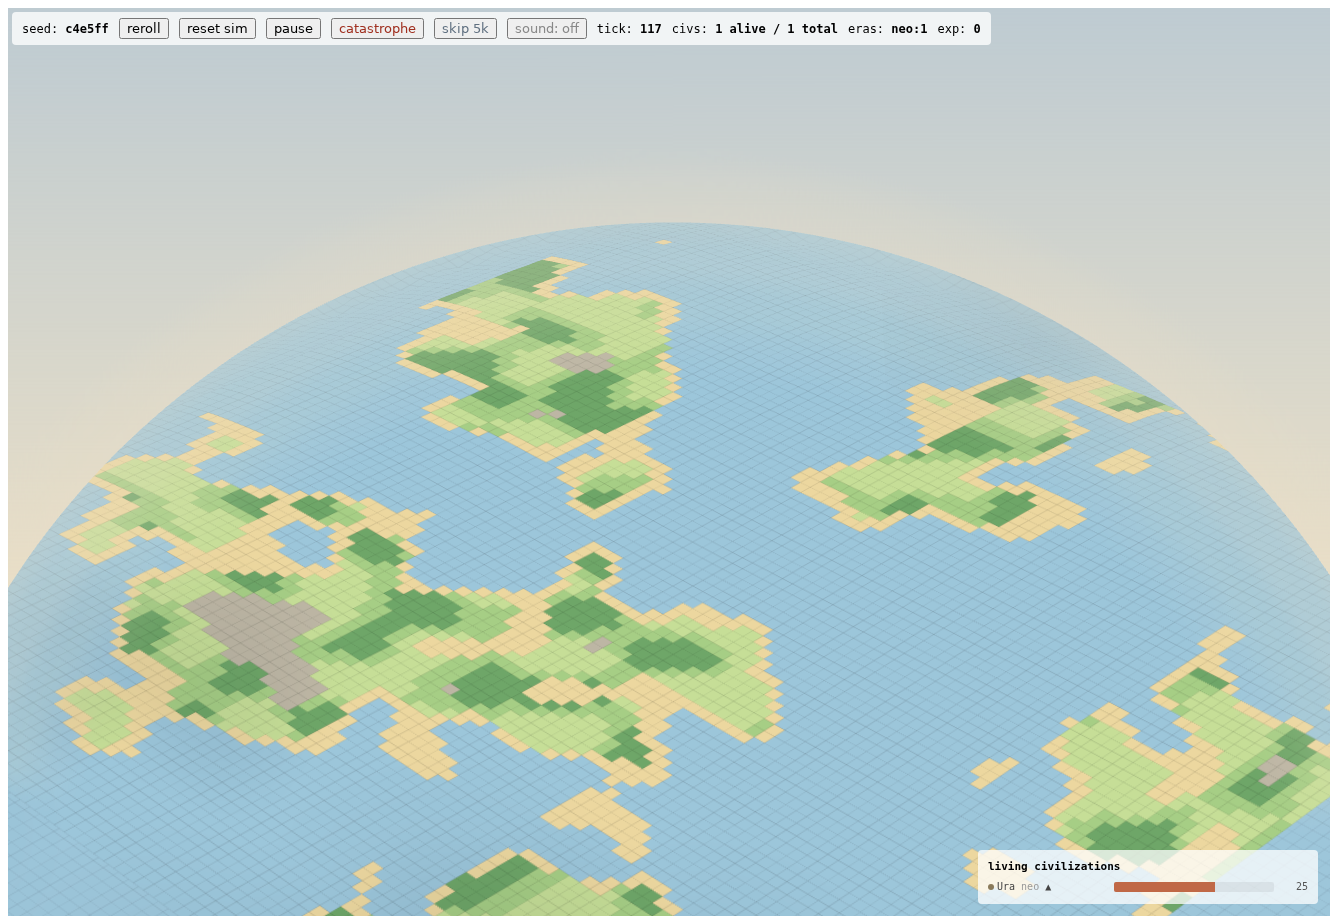
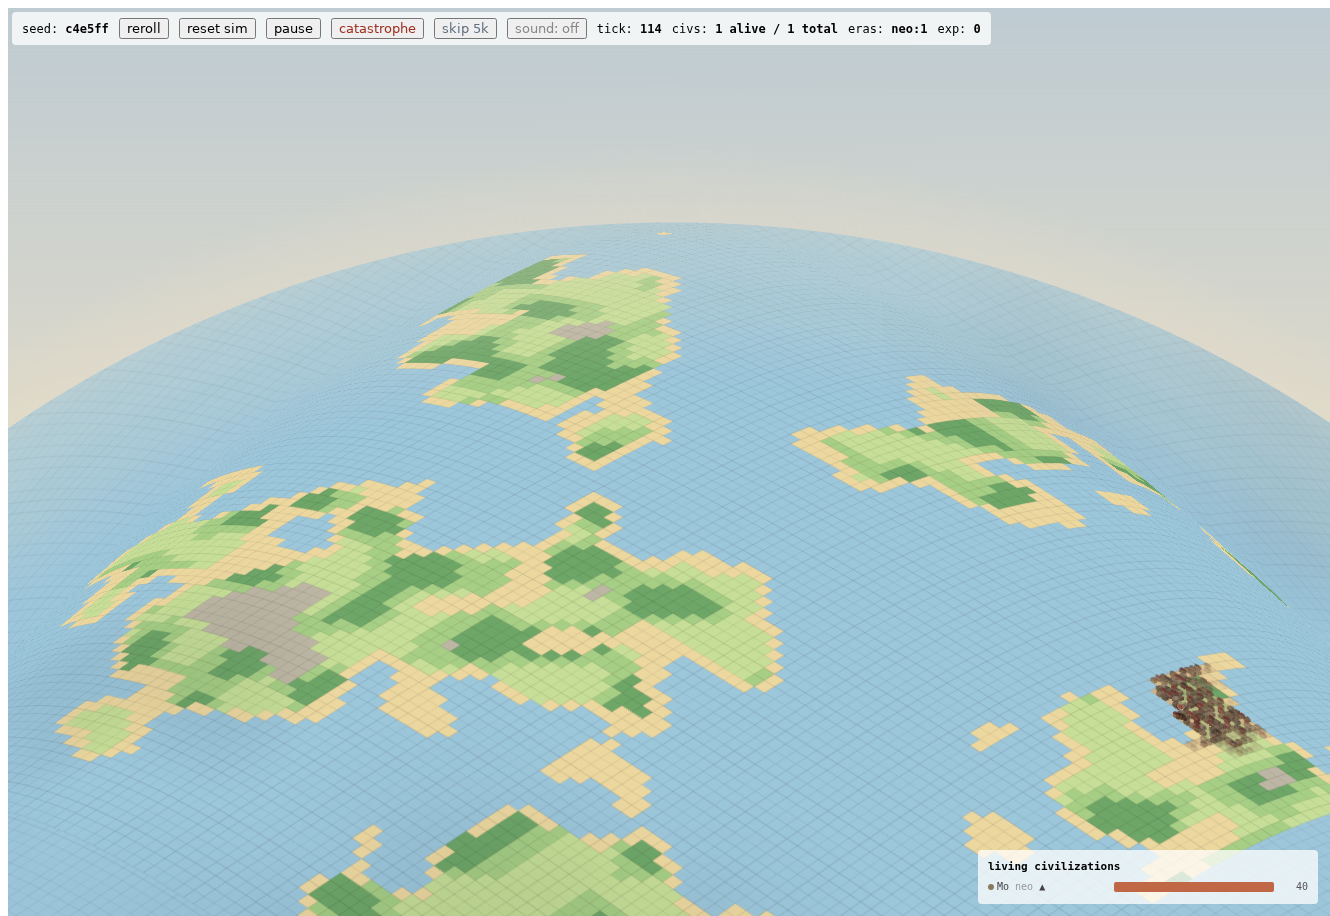
Halve the limb; bow and thin the surface into it
- limbSagMax 0.80 -> 0.40: the horizon arc is half as curved.
- Surface rows now bow parallel to the limb circle as they approach the
  horizon (limbBowMix/limbBowPower, riding the curvature knob), so the
  grid wraps the planet instead of running straight beneath the arc.
  The mesh re-bends whenever the limb is re-seated (resize/scrub).
- Far rows thin harder toward the horizon (perspective 0.60,
  vertCompressFrac 0.55): tiles narrow to slivers at the limb and relax
  to full size at the front.

diff --git a/src/atmosphere.ts b/src/atmosphere.ts
@@ -66,18 +66,20 @@ export const ATMOS = {
     // up to the horizon instead of sitting inside it. 0 = the flat diamond,
     // 1 = wings fully on the arc (too much; far columns stretch visibly).
     curvature: 0.62,
-    perspective: 0.45,
+    perspective: 0.60,
     remapMax:   0.35,        // at curvature=1: how far the surface bends toward the horizon (interior only — the limb mask owns the silhouette)
     arcSagFrac: 0.11,        // interior bend arc droop, fraction of texture height
     arcPower:   1.7,         // interior bend arc shape
     apexRoundFrac: 0.45,     // how wide the apex rounds (fraction of half-span, scales with the knob)
     pinchMaxFrac:     0.16,  // at perspective=1: horizontal narrowing of the far edge
-    vertCompressFrac: 0.35,  // at perspective=1: how hard far rows bunch toward the horizon (t^(1+this))
+    vertCompressFrac: 0.55,  // at perspective=1: how hard far rows thin toward the horizon (t^(1+this))
     // The limb: a true circular horizon, screen-space, that clips the world.
     // The far world disappears behind it — the ocean apron (drawn under the
     // terrain in main.ts) means there is always sea to clip, so the
     // silhouette is a circle arc by construction at any framing.
-    limbSagMax:   0.80,      // arc drop at the frame edge at curvature=1, fraction of half-width
+    limbSagMax:   0.40,      // arc drop at the frame edge at curvature=1, fraction of half-width
+    limbBowMix:   0.85,      // how strongly surface rows bow parallel to the limb as they near it
+    limbBowPower: 1.5,       // how quickly the bow fades toward the viewer (higher = horizon-only)
     limbHazeAlpha: 0.55,     // haze band lying along the limb
     limbHazeWidth: 64,       // band stroke width, screen px before blur
   },
@@ -378,6 +380,7 @@ export function createAtmosphere(): Atmosphere {
     if (sag < 2 || !attachedPlane) {
       // Flat: no horizon, no clipping.
       if (attachedPlane) attachedPlane.mask = null;
+      applyCurve();
       return;
     }
     // Circle through the arc apex (apexX, apexY), sagging `sag` px at the
@@ -403,6 +406,8 @@ export function createAtmosphere(): Atmosphere {
       limbBandGfx.arc(apexX, cy, R + off, -Math.PI / 2 - theta, -Math.PI / 2 + theta)
         .stroke({ color: 0xffffff, alpha: aMult, width: w0 * wMult, cap: 'round' });
     }
+    // The surface bow depends on the limb radius — re-bend the mesh.
+    applyCurve();
   }
 
   let attachedBiomeLayer: Container | null = null;
@@ -429,6 +434,17 @@ export function createAtmosphere(): Atmosphere {
     const c = ATMOS.curve;
     const k = curCurvature * c.remapMax;
     const halfSpan = (right.x - left.x) / 2;
+    // The limb circle (if seated): surface rows bow parallel to it as they
+    // approach the horizon, so the grid wraps the planet instead of running
+    // straight underneath the arc.
+    let limbR = 0;
+    if (limbLayout) {
+      const sag = curCurvature * c.limbSagMax * (limbLayout.width / 2);
+      if (sag >= 2) {
+        const halfW = limbLayout.width / 2 + 80;
+        limbR = (halfW * halfW + sag * sag) / (2 * sag);
+      }
+    }
     for (let i = 0; i < base.length; i += 2) {
       const x = base[i], y = base[i + 1];
       // The silhouette target: the diamond's tent edge with its apex rounded
@@ -444,18 +460,26 @@ export function createAtmosphere(): Atmosphere {
       const arcY = apex.y + c.arcSagFrac * texH * Math.pow(dx, c.arcPower);
       const newTopY = tentSoftY + (arcY - tentSoftY) * k;
       let ny: number;
+      let tRaw = 1; // 0 at the horizon edge, 1 at the front
       if (y <= tentSoftY) {
         // Sky margin above the soft edge: ride with the wing.
         ny = y + (newTopY - tentSoftY);
+        tRaw = 0;
       } else if (y < front.y) {
         // Surface between the soft edge and the front anchor: compress toward
         // the new top (front pinned), perspective bunching the far rows
         // toward the horizon (t^e redistribution).
-        let t = (y - tentSoftY) / (front.y - tentSoftY);
-        t = Math.pow(t, 1 + curPerspective * c.vertCompressFrac);
+        tRaw = (y - tentSoftY) / (front.y - tentSoftY);
+        const t = Math.pow(tRaw, 1 + curPerspective * c.vertCompressFrac);
         ny = newTopY + t * (front.y - newTopY);
       } else {
         ny = y;
+      }
+      // Bow rows parallel to the limb circle as they near the horizon.
+      if (limbR > 0 && tRaw < 1) {
+        const dxp = Math.min(limbR, Math.abs(x - apex.x));
+        const drop = limbR - Math.sqrt(limbR * limbR - dxp * dxp);
+        ny += drop * c.limbBowMix * curCurvature * Math.pow(1 - tRaw, c.limbBowPower);
       }
       // Perspective also pinches the far edge narrower.
       const nx = apex.x + (x - apex.x) * (1 - curPerspective * c.pinchMaxFrac * Math.max(0, 1 - y / texH));

diff --git a/RUN_LOG.md b/RUN_LOG.md
@@ -25,3 +25,4 @@
 - 07:00 Lawrence: "interesting but it's not a curve" — the silhouette was a polyline (32 mesh columns) with the tent's apex kink surviving the partial lerp. Fixed: mesh densified to 110x36 columns, and the remap target now rounds the apex point into a crown (softened |dx|, radius riding the knob — flat still restores at 0). Silhouette is now a single smooth limb at any framing. Calibration re-captured.
 - 07:40 Lawrence: "better but there's a seam in the center; can it look like the arc of a globe?" Seam diagnosed: the column mapping compressed from the diamond's TRUE edge, whose apex kink made the compression rate jump at the center column. Fix: the mapping now uses the softened (smooth) edge everywhere — no kink, no seam — and the sliver this leaves near the apex is filled by the feather upgraded into an opaque horizon BAND (stacked washes above the shoreline, dense at the waterline, dissolving upward). The surface now compresses into haze, the haze dissolves at the smooth crown: an atmospheric limb. Verified seamless at full-res apex crops, day and night.
 - 08:30 Lawrence's mockup: a true circular limb spanning the frame, far world hidden behind the horizon. v6 construction: (1) ocean apron — sea + iso grid extends past the diamond in all directions (first child of biomeLayer, takes seasonal tint), so the world has no diamond boundary at all; (2) screen-space circular limb mask clips the world plane — the silhouette is a circle by construction at any framing, far terrain genuinely disappears over the horizon; (3) haze band moved onto the limb arc; (4) interior bend retained (remapMax eased to 0.35), seat raised (horizonFrac 0.24) for sky like the mockup. curvature<0.05 hides the apron + mask (flat diamond restores). Day and night shots match the mockup construction.
+- 09:00 Lawrence: halve the curve + tiles should skew/thin toward the horizon naturally. limbSagMax 0.80 -> 0.40; new limb-aligned surface bow (rows bend parallel to the limb circle as they approach it, fading toward the viewer: limbBowMix/limbBowPower) and stronger far-row thinning (perspective 0.60, vertCompressFrac 0.55). Horizon crop verifies: rows wrap the arc, tiles thin to slivers at the limb, normal proportions at the front.
